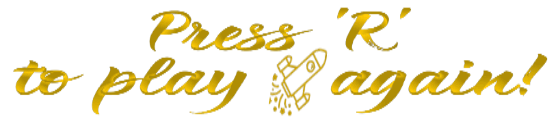
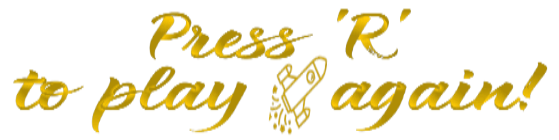
Repositioned the onscreen game reset instructions png file and increased its height

diff --git a/main.py b/main.py
@@ -500,7 +500,7 @@ def game_over():  # Displays the game over screen
         DUMMY_WINDOW.blit(BACKGROUND_SURFACE, (0, 0))
         DUMMY_WINDOW.blit(LOGO, (60, 25))
         DUMMY_WINDOW.blit(YOU_LOSE_SURFACE, (6, 292))
-        DUMMY_WINDOW.blit(SPACEBAR_AGAIN_INSTRUCTIONS, (6, 712))
+        DUMMY_WINDOW.blit(SPACEBAR_AGAIN_INSTRUCTIONS, (6, 670))
 
         high_score = update_score(red_score, high_score)
         score_display()
